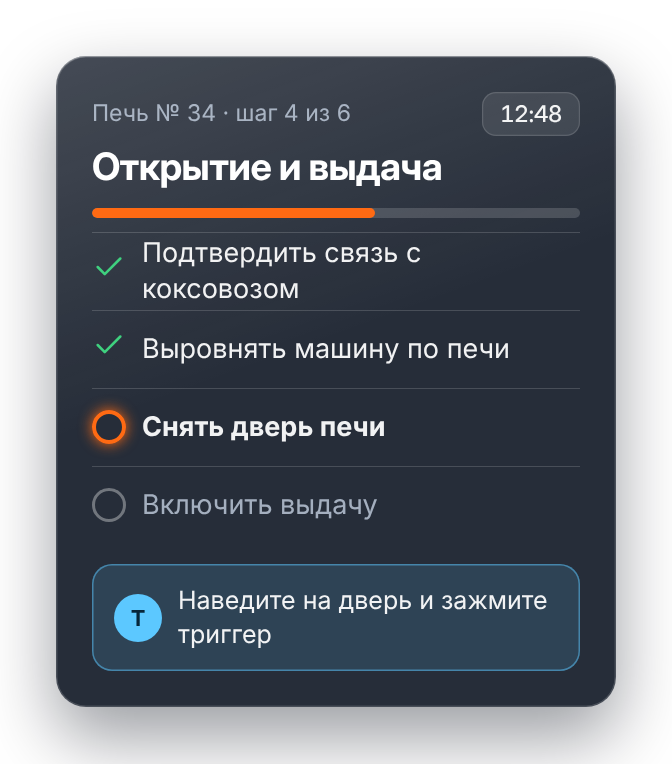
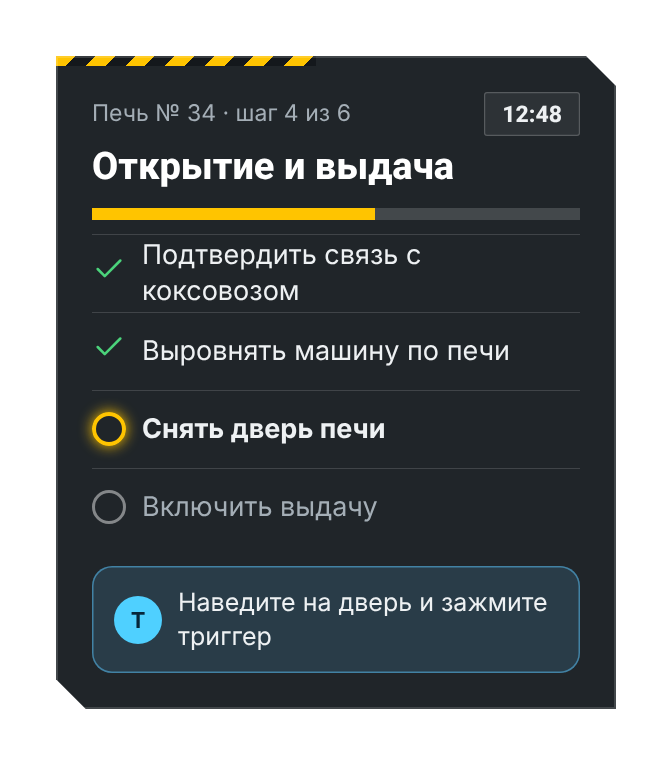
Основной стиль — «Промышленный HUD» (полоски); остальные в variants/
Claude-Session: https://claude.ai/code/session_01HhUDTXRptXNLuojn7Me25T

diff --git a/screens/02-module.html b/screens/02-module.html
@@ -1,9 +1,9 @@
 <!doctype html>
-<html lang="ru"><head><meta charset="utf-8"><title>Модуль</title><link rel="stylesheet" href="../design/window.css"></head>
+<html lang="ru"><head><meta charset="utf-8"><title>Модуль</title><link rel="stylesheet" href="../design/window.css"><link rel="stylesheet" href="../design/themes/industrial.css"></head>
 <body><div class="stage"><div class="panel row" style="width:1560px;padding:50px 56px;gap:56px;align-items:stretch">
 <div style="flex:1"><div class="logo"><img src="../assets/logo/nlmk.svg" alt="НЛМК" onerror="this.replaceWith(Object.assign(document.createElement('span'),{className:'ph',textContent:'НЛМК'}))"></div><div class="s" style="margin-top:26px">Модуль 1 из 3</div><div class="h1" style="margin-top:8px;font-size:62px">Выдача кокса</div>
 <div class="t" style="margin-top:18px;color:var(--mute)">Вы управляете коксовыталкивателем: готовите машину, согласуете выдачу с коксовозом и закрываете печь.</div>
-<div style="margin-top:26px"><div class="row" style="gap:22px;height:78px;border-top:1.5px solid var(--line)"><div class="row" style="flex:none;width:46px;height:46px;border-radius:50%;justify-content:center;background:var(--ok);color:#06281a"><svg width="28" height="28" viewBox="0 0 24 24" fill="none" stroke="currentColor" stroke-width="1.8" stroke-linecap="round" stroke-linejoin="round"><path d="M4 12l5 5L20 6"/></svg></div><div class="t sp">Проверка допуска и СИЗ</div><div class="s">3 мин</div></div><div class="row" style="gap:22px;height:78px;border-top:1.5px solid var(--line)"><div class="row" style="flex:none;width:46px;height:46px;border-radius:50%;justify-content:center;background:var(--ok);color:#06281a"><svg width="28" height="28" viewBox="0 0 24 24" fill="none" stroke="currentColor" stroke-width="1.8" stroke-linecap="round" stroke-linejoin="round"><path d="M4 12l5 5L20 6"/></svg></div><div class="t sp">Осмотр коксовыталкивателя</div><div class="s">6 мин</div></div><div class="row" style="gap:22px;height:78px;border-top:1.5px solid var(--line)"><div class="row" style="flex:none;width:46px;height:46px;border-radius:50%;justify-content:center;box-shadow:inset 0 0 0 2.5px rgba(255,255,255,.4)"><span class="num" style="font-size:24px">3</span></div><div class="t sp">Связь с машинистом коксовоза</div><div class="s">4 мин</div></div><div class="row" style="gap:22px;height:78px;border-top:1.5px solid var(--line)"><div class="row" style="flex:none;width:46px;height:46px;border-radius:50%;justify-content:center;box-shadow:inset 0 0 0 2.5px rgba(255,255,255,.4)"><span class="num" style="font-size:24px">4</span></div><div class="t sp">Открытие и выдача печи</div><div class="s">15 мин</div></div><div class="row" style="gap:22px;height:78px;border-top:1.5px solid var(--line)"><div class="row" style="flex:none;width:46px;height:46px;border-radius:50%;justify-content:center;box-shadow:inset 0 0 0 2.5px rgba(255,255,255,.4)"><span class="num" style="font-size:24px">5</span></div><div class="t sp">Закрытие двери, уборка проёма</div><div class="s">7 мин</div></div><div class="row" style="gap:22px;height:78px;border-top:1.5px solid var(--line)"><div class="row" style="flex:none;width:46px;height:46px;border-radius:50%;justify-content:center;box-shadow:inset 0 0 0 2.5px rgba(255,255,255,.4)"><span class="num" style="font-size:24px">6</span></div><div class="t sp">Разбор ошибок</div><div class="s">5 мин</div></div></div></div>
+<div style="margin-top:26px"><div class="row" style="gap:22px;height:78px;border-top:1.5px solid var(--line)"><div class="row" style="flex:none;width:46px;height:46px;border-radius:50%;justify-content:center;background:var(--ok);color:#06281a"><svg width="28" height="28" viewBox="0 0 24 24" fill="none" stroke="currentColor" stroke-width="1.8" stroke-linecap="round" stroke-linejoin="round"><path d="M4 12l5 5L20 6"/></svg></div><div class="t sp">Проверка допуска и СИЗ</div><div class="s">3 мин</div></div><div class="row" style="gap:22px;height:78px;border-top:1.5px solid var(--line)"><div class="row" style="flex:none;width:46px;height:46px;border-radius:50%;justify-content:center;background:var(--ok);color:#06281a"><svg width="28" height="28" viewBox="0 0 24 24" fill="none" stroke="currentColor" stroke-width="1.8" stroke-linecap="round" stroke-linejoin="round"><path d="M4 12l5 5L20 6"/></svg></div><div class="t sp">Осмотр коксовыталкивателя</div><div class="s">6 мин</div></div><div class="row" style="gap:22px;height:78px;border-top:1.5px solid var(--line)"><div class="row" style="flex:none;width:46px;height:46px;border-radius:50%;justify-content:center;box-shadow:inset 0 0 0 2.5px var(--ring)"><span class="num" style="font-size:24px">3</span></div><div class="t sp">Связь с машинистом коксовоза</div><div class="s">4 мин</div></div><div class="row" style="gap:22px;height:78px;border-top:1.5px solid var(--line)"><div class="row" style="flex:none;width:46px;height:46px;border-radius:50%;justify-content:center;box-shadow:inset 0 0 0 2.5px var(--ring)"><span class="num" style="font-size:24px">4</span></div><div class="t sp">Открытие и выдача печи</div><div class="s">15 мин</div></div><div class="row" style="gap:22px;height:78px;border-top:1.5px solid var(--line)"><div class="row" style="flex:none;width:46px;height:46px;border-radius:50%;justify-content:center;box-shadow:inset 0 0 0 2.5px var(--ring)"><span class="num" style="font-size:24px">5</span></div><div class="t sp">Закрытие двери, уборка проёма</div><div class="s">7 мин</div></div><div class="row" style="gap:22px;height:78px;border-top:1.5px solid var(--line)"><div class="row" style="flex:none;width:46px;height:46px;border-radius:50%;justify-content:center;box-shadow:inset 0 0 0 2.5px var(--ring)"><span class="num" style="font-size:24px">6</span></div><div class="t sp">Разбор ошибок</div><div class="s">5 мин</div></div></div></div>
 <div style="width:460px;display:flex;flex-direction:column"><div class="h2">Режим</div>
 <div class="card sel" style="margin-top:24px;padding:26px 28px"><div class="h3">Обучение</div><div class="s" style="margin-top:8px">Подсказки на объектах, ошибки можно исправить</div></div>
 <div class="card" style="margin-top:18px;padding:26px 28px"><div class="h3">Экзамен</div><div class="s" style="margin-top:8px">Без подсказок, ошибка снимает баллы</div></div>

diff --git a/screens/04-alarm.html b/screens/04-alarm.html
@@ -1,10 +1,10 @@
 <!doctype html>
-<html lang="ru"><head><meta charset="utf-8"><title>Тревога</title><link rel="stylesheet" href="../design/window.css"></head>
+<html lang="ru"><head><meta charset="utf-8"><title>Тревога</title><link rel="stylesheet" href="../design/window.css"><link rel="stylesheet" href="../design/themes/industrial.css"></head>
 <body><div class="stage"><div class="panel alert" style="width:1020px;padding:50px 58px">
 <div class="row" style="gap:30px"><div class="row" style="flex:none;width:112px;height:112px;border-radius:28px;background:var(--bad);color:#fff;justify-content:center;box-shadow:0 0 40px rgba(255,81,72,.7)"><svg width="72" height="72" viewBox="0 0 24 24" fill="none" stroke="currentColor" stroke-width="1.8" stroke-linecap="round" stroke-linejoin="round"><path d="M12 3l10 18H2zM12 10v5M12 18v1"/></svg></div>
-<div><div class="s" style="color:#ffd3ce">Газоанализатор</div><div class="h1" style="font-size:60px;margin-top:6px;white-space:nowrap">Превышен предел СО</div></div></div>
-<div class="row" style="align-items:baseline;gap:20px;margin-top:34px"><div class="num" style="font-size:160px;line-height:1;color:#fff;text-shadow:0 0 44px rgba(255,70,50,.9)">46</div><div class="h2">ppm — допустимо до 20</div></div>
+<div><div class="s" style="color:var(--alarm-sub)">Газоанализатор</div><div class="h1" style="font-size:60px;margin-top:6px;white-space:nowrap">Превышен предел СО</div></div></div>
+<div class="row" style="align-items:baseline;gap:20px;margin-top:34px"><div class="num" style="font-size:160px;line-height:1;color:var(--alarm-num);text-shadow:var(--alarm-glow)">46</div><div class="h2">ppm — допустимо до 20</div></div>
 <div class="bar" style="margin-top:16px;height:16px"><i style="width:76%;background:linear-gradient(90deg,var(--warn),var(--bad))"></i></div>
 <div class="t" style="margin-top:30px">Прекратите работу и выйдите из зоны. Двигайтесь против ветра к сборному пункту.</div>
-<div class="row t" style="gap:12px;margin-top:18px;color:#ffe9a8"><svg width="32" height="32" viewBox="0 0 24 24" fill="none" stroke="currentColor" stroke-width="1.8" stroke-linecap="round" stroke-linejoin="round"><path d="M13 4a1.5 1.5 0 1 0 0 .1M9 21l3-7-3-3 2-4 4 3 3 1M12 14l4 7"/></svg>Сборный пункт: 62 м, на север</div>
+<div class="row t" style="gap:12px;margin-top:18px;color:var(--alarm-hint)"><svg width="32" height="32" viewBox="0 0 24 24" fill="none" stroke="currentColor" stroke-width="1.8" stroke-linecap="round" stroke-linejoin="round"><path d="M13 4a1.5 1.5 0 1 0 0 .1M9 21l3-7-3-3 2-4 4 3 3 1M12 14l4 7"/></svg>Сборный пункт: 62 м, на север</div>
 <div class="row" style="gap:20px;margin-top:30px"><div class="btn bad">Эвакуация к пункту</div><div class="btn">Надеть самоспасатель</div></div></div></div></body></html>

diff --git a/screens/03-task.html b/screens/03-task.html
@@ -1,5 +1,5 @@
 <!doctype html>
-<html lang="ru"><head><meta charset="utf-8"><title>Задание</title><link rel="stylesheet" href="../design/window.css"></head>
+<html lang="ru"><head><meta charset="utf-8"><title>Задание</title><link rel="stylesheet" href="../design/window.css"><link rel="stylesheet" href="../design/themes/industrial.css"></head>
 <body><div class="stage"><div class="panel" style="width:560px;padding:36px">
 <div class="row"><div class="s">Печь № 34 · шаг 4 из 6</div><div class="sp"></div><div class="chip num">12:48</div></div>
 <div class="h2" style="margin-top:10px">Открытие и выдача</div><div class="bar" style="margin-top:20px"><i style="width:58%;background:var(--heat)"></i></div>
@@ -7,5 +7,5 @@
 <div class="row" style="gap:16px;height:78px;border-top:1.5px solid var(--line)"><span style="color:var(--ok)"><svg width="34" height="34" viewBox="0 0 24 24" fill="none" stroke="currentColor" stroke-width="1.8" stroke-linecap="round" stroke-linejoin="round"><path d="M4 12l5 5L20 6"/></svg></span><span>Подтвердить связь с коксовозом</span></div>
 <div class="row" style="gap:16px;height:78px;border-top:1.5px solid var(--line)"><span style="color:var(--ok)"><svg width="34" height="34" viewBox="0 0 24 24" fill="none" stroke="currentColor" stroke-width="1.8" stroke-linecap="round" stroke-linejoin="round"><path d="M4 12l5 5L20 6"/></svg></span><span>Выровнять машину по печи</span></div>
 <div class="row" style="gap:16px;height:78px;border-top:1.5px solid var(--line)"><div style="flex:none;width:34px;height:34px;border-radius:50%;border:4px solid var(--heat);box-shadow:0 0 14px var(--heat)"></div><b>Снять дверь печи</b></div>
-<div class="row" style="gap:16px;height:78px;border-top:1.5px solid var(--line);color:var(--mute)"><div style="flex:none;width:34px;height:34px;border-radius:50%;border:3px solid rgba(255,255,255,.35)"></div><span>Включить выдачу</span></div></div>
+<div class="row" style="gap:16px;height:78px;border-top:1.5px solid var(--line);color:var(--mute)"><div style="flex:none;width:34px;height:34px;border-radius:50%;border:3px solid var(--ring)"></div><span>Включить выдачу</span></div></div>
 <div class="row" style="gap:16px;margin-top:20px;padding:20px 22px;border-radius:20px;background:rgba(92,200,255,.14);box-shadow:inset 0 0 0 1.5px rgba(92,200,255,.5)"><div class="row" style="flex:none;width:48px;height:48px;border-radius:50%;background:var(--ray);color:#06263a;justify-content:center;font-weight:700;font-size:22px">Т</div><span class="t" style="font-size:25px">Наведите на дверь и зажмите триггер</span></div></div></div></body></html>

diff --git a/design/themes/industrial.css b/design/themes/industrial.css
@@ -12,11 +12,12 @@
 .panel.alert{background:rgba(44,10,10,.96)}
 .panel.alert::before{background:repeating-linear-gradient(135deg,#FF4B3E 0 14px,#14181c 14px 28px)}
 .stage{padding:56px}
-.card{background:rgba(255,255,255,.05);border-radius:0;box-shadow:inset 0 0 0 2px rgba(255,255,255,.14);clip-path:polygon(0 0,calc(100% - 20px) 0,100% 20px,100% 100%,0 100%)}
+.card{background:rgba(255,255,255,.05);border-radius:0;box-shadow:inset 0 0 0 2px rgba(255,255,255,.14)}
 .card.sel{box-shadow:inset 0 0 0 4px var(--heat)}
 .cover{background:repeating-linear-gradient(135deg,rgba(255,196,0,.10) 0 16px,rgba(255,196,0,0) 16px 32px),linear-gradient(170deg,#262d34,#171c21);color:#FFC400}
 .cover svg{filter:none}
-.btn{border-radius:0;background:transparent;box-shadow:inset 0 0 0 2.5px rgba(255,255,255,.5);font-weight:800;font-family:'Roboto';font-variation-settings:'wdth' 85;font-size:30px;clip-path:polygon(0 0,calc(100% - 16px) 0,100% 16px,100% 100%,16px 100%,0 calc(100% - 16px))}
+.btn{border-radius:0;background:transparent;box-shadow:inset 0 0 0 2.5px rgba(255,255,255,.5);font-weight:800;font-family:'Roboto';font-variation-settings:'wdth' 85;font-size:30px}
+.btn.heat,.btn.bad{clip-path:polygon(0 0,calc(100% - 16px) 0,100% 16px,100% 100%,16px 100%,0 calc(100% - 16px))}
 .btn.heat{background:#FFC400;color:#14181c;box-shadow:none}
 .btn.bad{background:#FF4B3E;color:#fff;box-shadow:none}
 .chip{border-radius:3px;box-shadow:inset 0 0 0 1.2px rgba(255,255,255,.2);background:rgba(255,255,255,.06)}

diff --git a/variants/graphite/01-lobby.html b/variants/graphite/01-lobby.html
@@ -1,5 +1,5 @@
 <!doctype html>
-<html lang="ru"><head><meta charset="utf-8"><title>Лобби</title><link rel="stylesheet" href="../../design/window.css"><link rel="stylesheet" href="../../design/themes/industrial.css"></head>
+<html lang="ru"><head><meta charset="utf-8"><title>Лобби</title><link rel="stylesheet" href="../../design/window.css"><link rel="stylesheet" href="../../design/themes/graphite.css"></head>
 <body><div class="stage"><div class="panel" style="width:1400px;padding:48px 52px">
 <div class="row"><div><div class="logo"><img src="../../assets/logo/nlmk.svg" alt="НЛМК" onerror="this.replaceWith(Object.assign(document.createElement('span'),{className:'ph',textContent:'НЛМК'}))"></div><div class="h1" style="margin-top:22px">Коксовый цех</div><div class="s" style="margin-top:10px">VR-тренажёр · обучение безопасной работе на коксовой батарее</div></div><div class="sp"></div>
 <div style="text-align:right"><div class="chip"><span class="dot"></span>Шлем и контроллеры подключены</div><div class="s" style="margin-top:16px">Допуск действует до 14 декабря</div><div class="s">Пройдено 7 из 12 модулей</div></div></div>

diff --git a/screens/01-lobby.html b/screens/01-lobby.html
@@ -1,5 +1,5 @@
 <!doctype html>
-<html lang="ru"><head><meta charset="utf-8"><title>Лобби</title><link rel="stylesheet" href="../design/window.css"></head>
+<html lang="ru"><head><meta charset="utf-8"><title>Лобби</title><link rel="stylesheet" href="../design/window.css"><link rel="stylesheet" href="../design/themes/industrial.css"></head>
 <body><div class="stage"><div class="panel" style="width:1400px;padding:48px 52px">
 <div class="row"><div><div class="logo"><img src="../assets/logo/nlmk.svg" alt="НЛМК" onerror="this.replaceWith(Object.assign(document.createElement('span'),{className:'ph',textContent:'НЛМК'}))"></div><div class="h1" style="margin-top:22px">Коксовый цех</div><div class="s" style="margin-top:10px">VR-тренажёр · обучение безопасной работе на коксовой батарее</div></div><div class="sp"></div>
 <div style="text-align:right"><div class="chip"><span class="dot"></span>Шлем и контроллеры подключены</div><div class="s" style="margin-top:16px">Допуск действует до 14 декабря</div><div class="s">Пройдено 7 из 12 модулей</div></div></div>

diff --git a/variants/graphite/02-module.html b/variants/graphite/02-module.html
@@ -1,5 +1,5 @@
 <!doctype html>
-<html lang="ru"><head><meta charset="utf-8"><title>Модуль</title><link rel="stylesheet" href="../../design/window.css"><link rel="stylesheet" href="../../design/themes/industrial.css"></head>
+<html lang="ru"><head><meta charset="utf-8"><title>Модуль</title><link rel="stylesheet" href="../../design/window.css"><link rel="stylesheet" href="../../design/themes/graphite.css"></head>
 <body><div class="stage"><div class="panel row" style="width:1560px;padding:50px 56px;gap:56px;align-items:stretch">
 <div style="flex:1"><div class="logo"><img src="../../assets/logo/nlmk.svg" alt="НЛМК" onerror="this.replaceWith(Object.assign(document.createElement('span'),{className:'ph',textContent:'НЛМК'}))"></div><div class="s" style="margin-top:26px">Модуль 1 из 3</div><div class="h1" style="margin-top:8px;font-size:62px">Выдача кокса</div>
 <div class="t" style="margin-top:18px;color:var(--mute)">Вы управляете коксовыталкивателем: готовите машину, согласуете выдачу с коксовозом и закрываете печь.</div>

diff --git a/variants/graphite/04-alarm.html b/variants/graphite/04-alarm.html
@@ -1,5 +1,5 @@
 <!doctype html>
-<html lang="ru"><head><meta charset="utf-8"><title>Тревога</title><link rel="stylesheet" href="../../design/window.css"><link rel="stylesheet" href="../../design/themes/industrial.css"></head>
+<html lang="ru"><head><meta charset="utf-8"><title>Тревога</title><link rel="stylesheet" href="../../design/window.css"><link rel="stylesheet" href="../../design/themes/graphite.css"></head>
 <body><div class="stage"><div class="panel alert" style="width:1020px;padding:50px 58px">
 <div class="row" style="gap:30px"><div class="row" style="flex:none;width:112px;height:112px;border-radius:28px;background:var(--bad);color:#fff;justify-content:center;box-shadow:0 0 40px rgba(255,81,72,.7)"><svg width="72" height="72" viewBox="0 0 24 24" fill="none" stroke="currentColor" stroke-width="1.8" stroke-linecap="round" stroke-linejoin="round"><path d="M12 3l10 18H2zM12 10v5M12 18v1"/></svg></div>
 <div><div class="s" style="color:var(--alarm-sub)">Газоанализатор</div><div class="h1" style="font-size:60px;margin-top:6px;white-space:nowrap">Превышен предел СО</div></div></div>

diff --git a/variants/graphite/05-results.html b/variants/graphite/05-results.html
@@ -1,5 +1,5 @@
 <!doctype html>
-<html lang="ru"><head><meta charset="utf-8"><title>Итоги</title><link rel="stylesheet" href="../../design/window.css"><link rel="stylesheet" href="../../design/themes/industrial.css"></head>
+<html lang="ru"><head><meta charset="utf-8"><title>Итоги</title><link rel="stylesheet" href="../../design/window.css"><link rel="stylesheet" href="../../design/themes/graphite.css"></head>
 <body><div class="stage"><div class="panel row" style="width:1560px;padding:56px 64px;gap:80px;align-items:stretch">
 <div style="width:520px"><div class="logo"><img src="../../assets/logo/nlmk.svg" alt="НЛМК" onerror="this.replaceWith(Object.assign(document.createElement('span'),{className:'ph',textContent:'НЛМК'}))"></div><div class="s" style="margin-top:30px">Выдача кокса · режим «Обучение»</div>
 <div class="row" style="align-items:flex-start"><div class="num" style="font-size:220px;line-height:1;color:var(--ok);margin-top:6px">85</div><div class="num" style="font-size:90px;color:var(--ok);margin-top:30px">%</div></div>

diff --git a/screens/05-results.html b/screens/05-results.html
@@ -1,5 +1,5 @@
 <!doctype html>
-<html lang="ru"><head><meta charset="utf-8"><title>Итоги</title><link rel="stylesheet" href="../design/window.css"></head>
+<html lang="ru"><head><meta charset="utf-8"><title>Итоги</title><link rel="stylesheet" href="../design/window.css"><link rel="stylesheet" href="../design/themes/industrial.css"></head>
 <body><div class="stage"><div class="panel row" style="width:1560px;padding:56px 64px;gap:80px;align-items:stretch">
 <div style="width:520px"><div class="logo"><img src="../assets/logo/nlmk.svg" alt="НЛМК" onerror="this.replaceWith(Object.assign(document.createElement('span'),{className:'ph',textContent:'НЛМК'}))"></div><div class="s" style="margin-top:30px">Выдача кокса · режим «Обучение»</div>
 <div class="row" style="align-items:flex-start"><div class="num" style="font-size:220px;line-height:1;color:var(--ok);margin-top:6px">85</div><div class="num" style="font-size:90px;color:var(--ok);margin-top:30px">%</div></div>

diff --git a/variants/graphite/03-task.html b/variants/graphite/03-task.html
@@ -1,5 +1,5 @@
 <!doctype html>
-<html lang="ru"><head><meta charset="utf-8"><title>Задание</title><link rel="stylesheet" href="../../design/window.css"><link rel="stylesheet" href="../../design/themes/industrial.css"></head>
+<html lang="ru"><head><meta charset="utf-8"><title>Задание</title><link rel="stylesheet" href="../../design/window.css"><link rel="stylesheet" href="../../design/themes/graphite.css"></head>
 <body><div class="stage"><div class="panel" style="width:560px;padding:36px">
 <div class="row"><div class="s">Печь № 34 · шаг 4 из 6</div><div class="sp"></div><div class="chip num">12:48</div></div>
 <div class="h2" style="margin-top:10px">Открытие и выдача</div><div class="bar" style="margin-top:20px"><i style="width:58%;background:var(--heat)"></i></div>

diff --git a/design/themes/graphite.css b/design/themes/graphite.css
@@ -1,0 +1,1 @@
+/* Вариант A — «Графитовое стекло»: значения по умолчанию из tokens.css/ui.css, переопределений нет */
